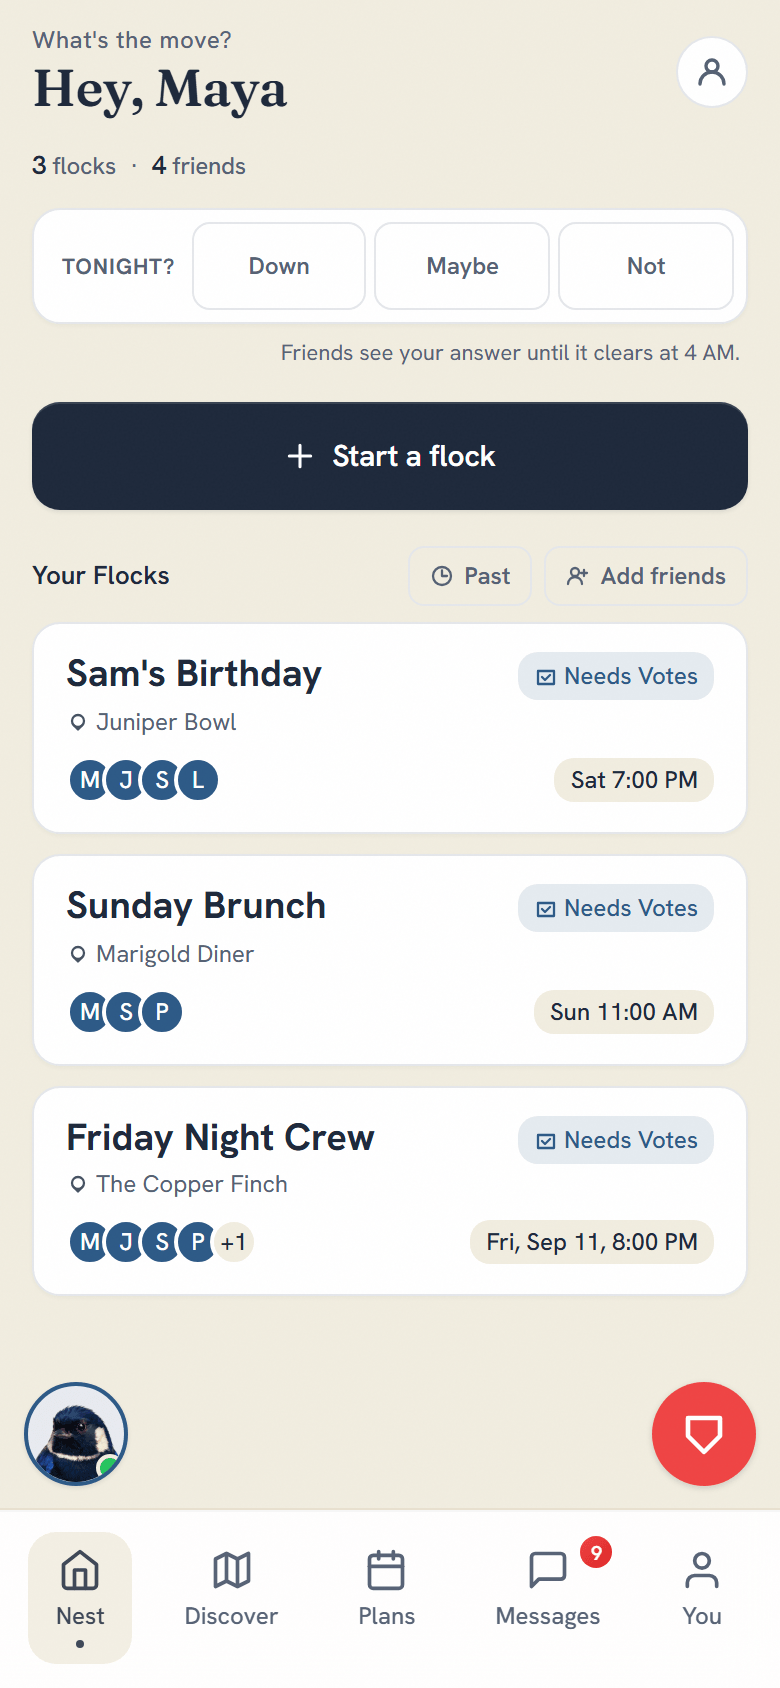
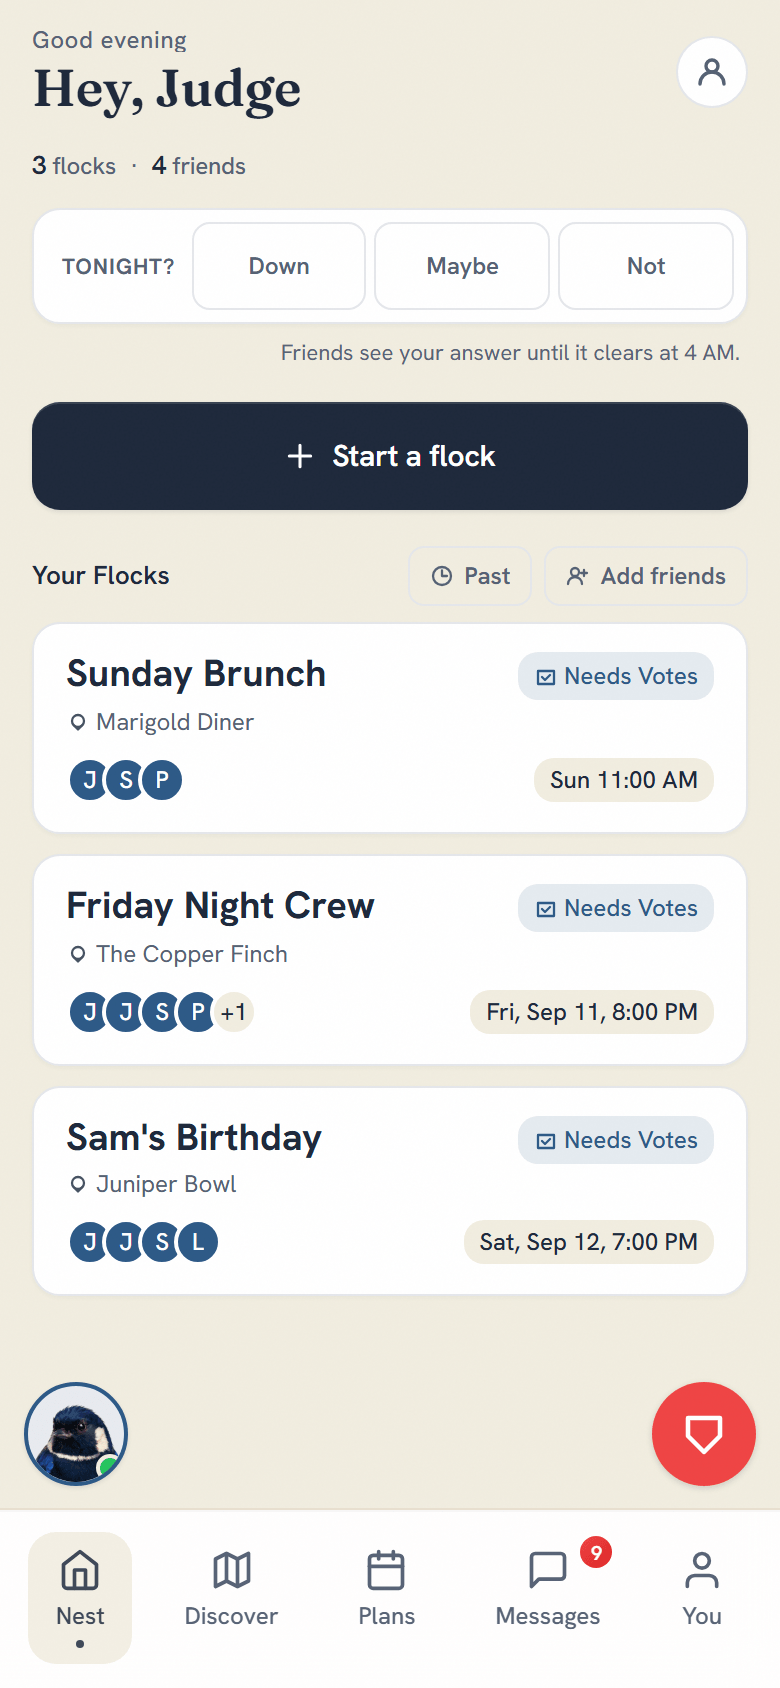
The Plans and You tabs get looked at, and a dead control goes

diff --git a/frontend/src/App.js b/frontend/src/App.js
@@ -15929,12 +15929,30 @@ const FlockAppInner = ({ authUser, onLogout, venueLoginFlag, onUserPatch }) => {
             </div>
             <button aria-label="Next month" className="hit44" onClick={() => setCalendarMonth(new Date(calendarMonth.getFullYear(), calendarMonth.getMonth() + 1, 1))} style={{ width: '32px', height: '32px', borderRadius: '16px', border: 'none', backgroundColor: 'rgba(255,255,255,0.2)', color: 'white', cursor: 'pointer', display: 'flex', alignItems: 'center', justifyContent: 'center' }}>{Icons.arrowRight('white', 16)}</button>
           </div>
-          {/* Today Quick Jump */}
+          {/* TODAY QUICK JUMP, drawn only when it has somewhere to jump to.
+              The Plans tab opens with calendarMonth and selectedDate both set
+              to `new Date()`, so in the DEFAULT state this full-width control
+              offered to take you to the day you were already looking at. Its
+              translucent fill reads as disabled besides, so the first thing on
+              the screen was a large grey bar that appeared dead and, if
+              tapped, did nothing observable.
+
+              Hidden rather than disabled or restyled, which is the rule this
+              app already follows elsewhere: BillCard withholds its undo
+              control instead of drawing one the server would refuse, because
+              "a control that exists only to be rejected is a dead one".
+
+              The row is kept as the wrapper so the header's spacing does not
+              move when the button appears; only the button goes. */}
           <div style={{ display: 'flex', gap: '8px' }}>
+            {(calendarMonth.getMonth() !== today.getMonth()
+              || calendarMonth.getFullYear() !== today.getFullYear()
+              || selectedDate.toDateString() !== today.toDateString()) && (
             <button className="hit44 glass-btn glass-secondary" onClick={() => { setCalendarMonth(today); setSelectedDate(today); }} style={{ flex: 1, padding: '8px', borderRadius: '10px', border: 'none', backgroundColor: 'rgba(255,255,255,0.15)', color: 'white', fontSize: 'var(--t-meta)', fontWeight: '600', cursor: 'pointer', display: 'flex', alignItems: 'center', justifyContent: 'center', gap: '4px' }}>
               {Icons.zap('#F59E0B', 12)}
               Jump to Today
             </button>
+            )}
           </div>
         </div>
 
